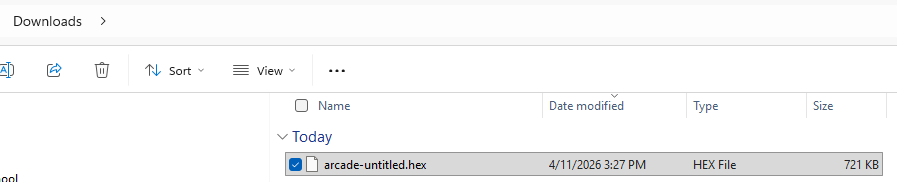
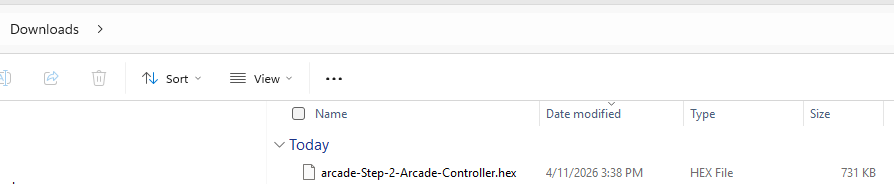
Battle bot controllers: updated download screenshots and file name hint
Claude-Session: https://claude.ai/code/session_01LZe4qkk7WAUZ396xSApgED

diff --git a/battlebot-2-arcade-controller.md b/battlebot-2-arcade-controller.md
@@ -619,7 +619,7 @@ When this box pops up, click **Done**. Your file is saved.
 
 ## Step 12: Copy It to Your Controller
 1. Plug your controller's micro:bit into the computer with a USB cable.
-2. Open **File Explorer** and find your file. It ends in **.hex**.
+2. Open **File Explorer** and find your file. Its name starts with **arcade-** and ends in **.hex**.
 3. Drag it onto **MICROBIT**.
 
 ![Dragging the hex file onto the MICROBIT drive](https://raw.githubusercontent.com/cggs-matthew-pham/cggs-stem-club-arcade/main/static/images/drag-to-microbit.png)

diff --git a/battlebot-3-controller.md b/battlebot-3-controller.md
@@ -682,7 +682,7 @@ When this box pops up, click **Done**. Your file is saved.
 
 ## Step 15: Copy It to Your Controller
 1. Plug your controller's micro:bit into the computer with a USB cable.
-2. Open **File Explorer** and find your file. It ends in **.hex**.
+2. Open **File Explorer** and find your file. Its name starts with **arcade-** and ends in **.hex**.
 3. Drag it onto **MICROBIT**.
 
 ![Dragging the hex file onto the MICROBIT drive](https://raw.githubusercontent.com/cggs-matthew-pham/cggs-stem-club-arcade/main/static/images/drag-to-microbit.png)

diff --git a/battlebot-4-controller.md b/battlebot-4-controller.md
@@ -772,7 +772,7 @@ When this box pops up, click **Done**. Your file is saved.
 
 ## Step 10: Copy It to Your Controller
 1. Plug your controller's micro:bit into the computer with a USB cable.
-2. Open **File Explorer** and find your file. It ends in **.hex**.
+2. Open **File Explorer** and find your file. Its name starts with **arcade-** and ends in **.hex**.
 3. Drag it onto **MICROBIT**.
 
 ![Dragging the hex file onto the MICROBIT drive](https://raw.githubusercontent.com/cggs-matthew-pham/cggs-stem-club-arcade/main/static/images/drag-to-microbit.png)
